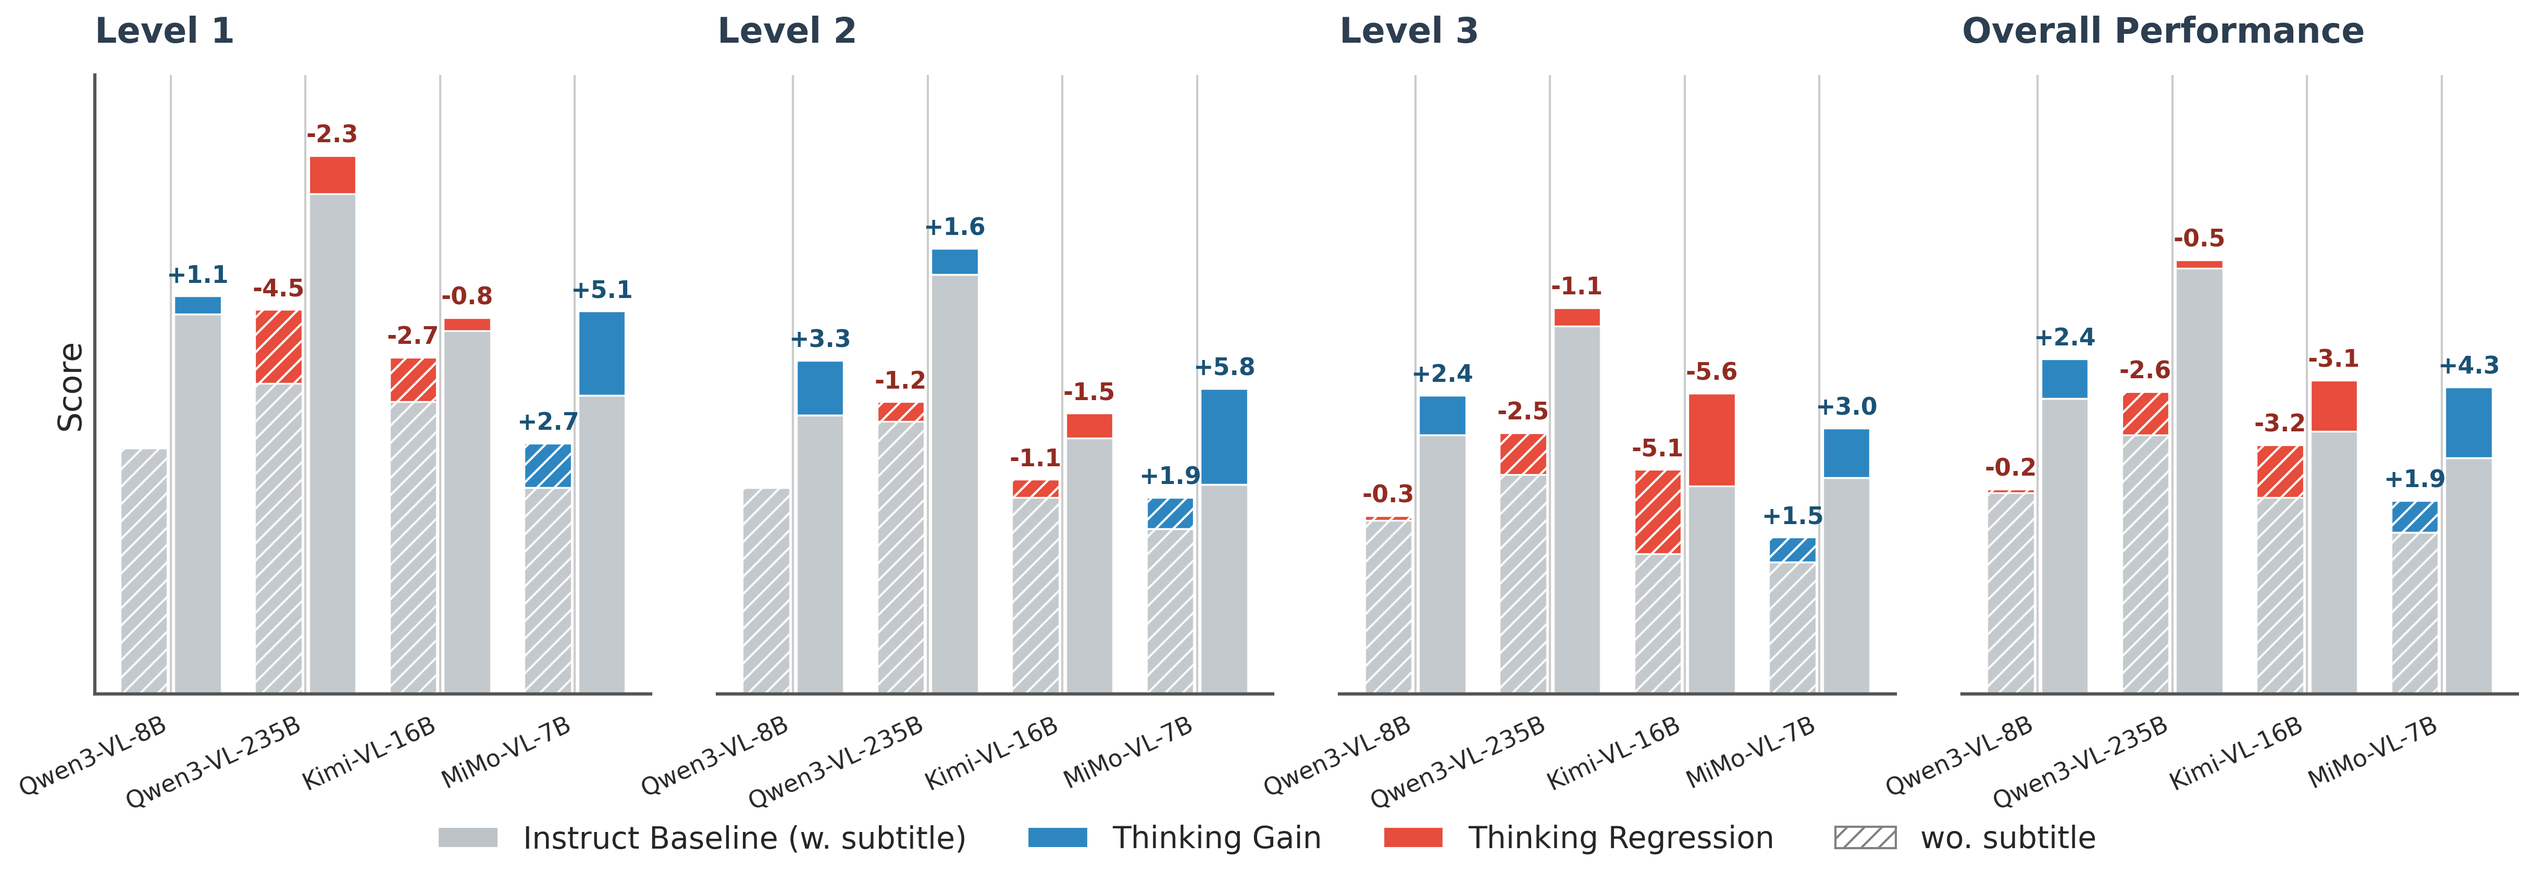
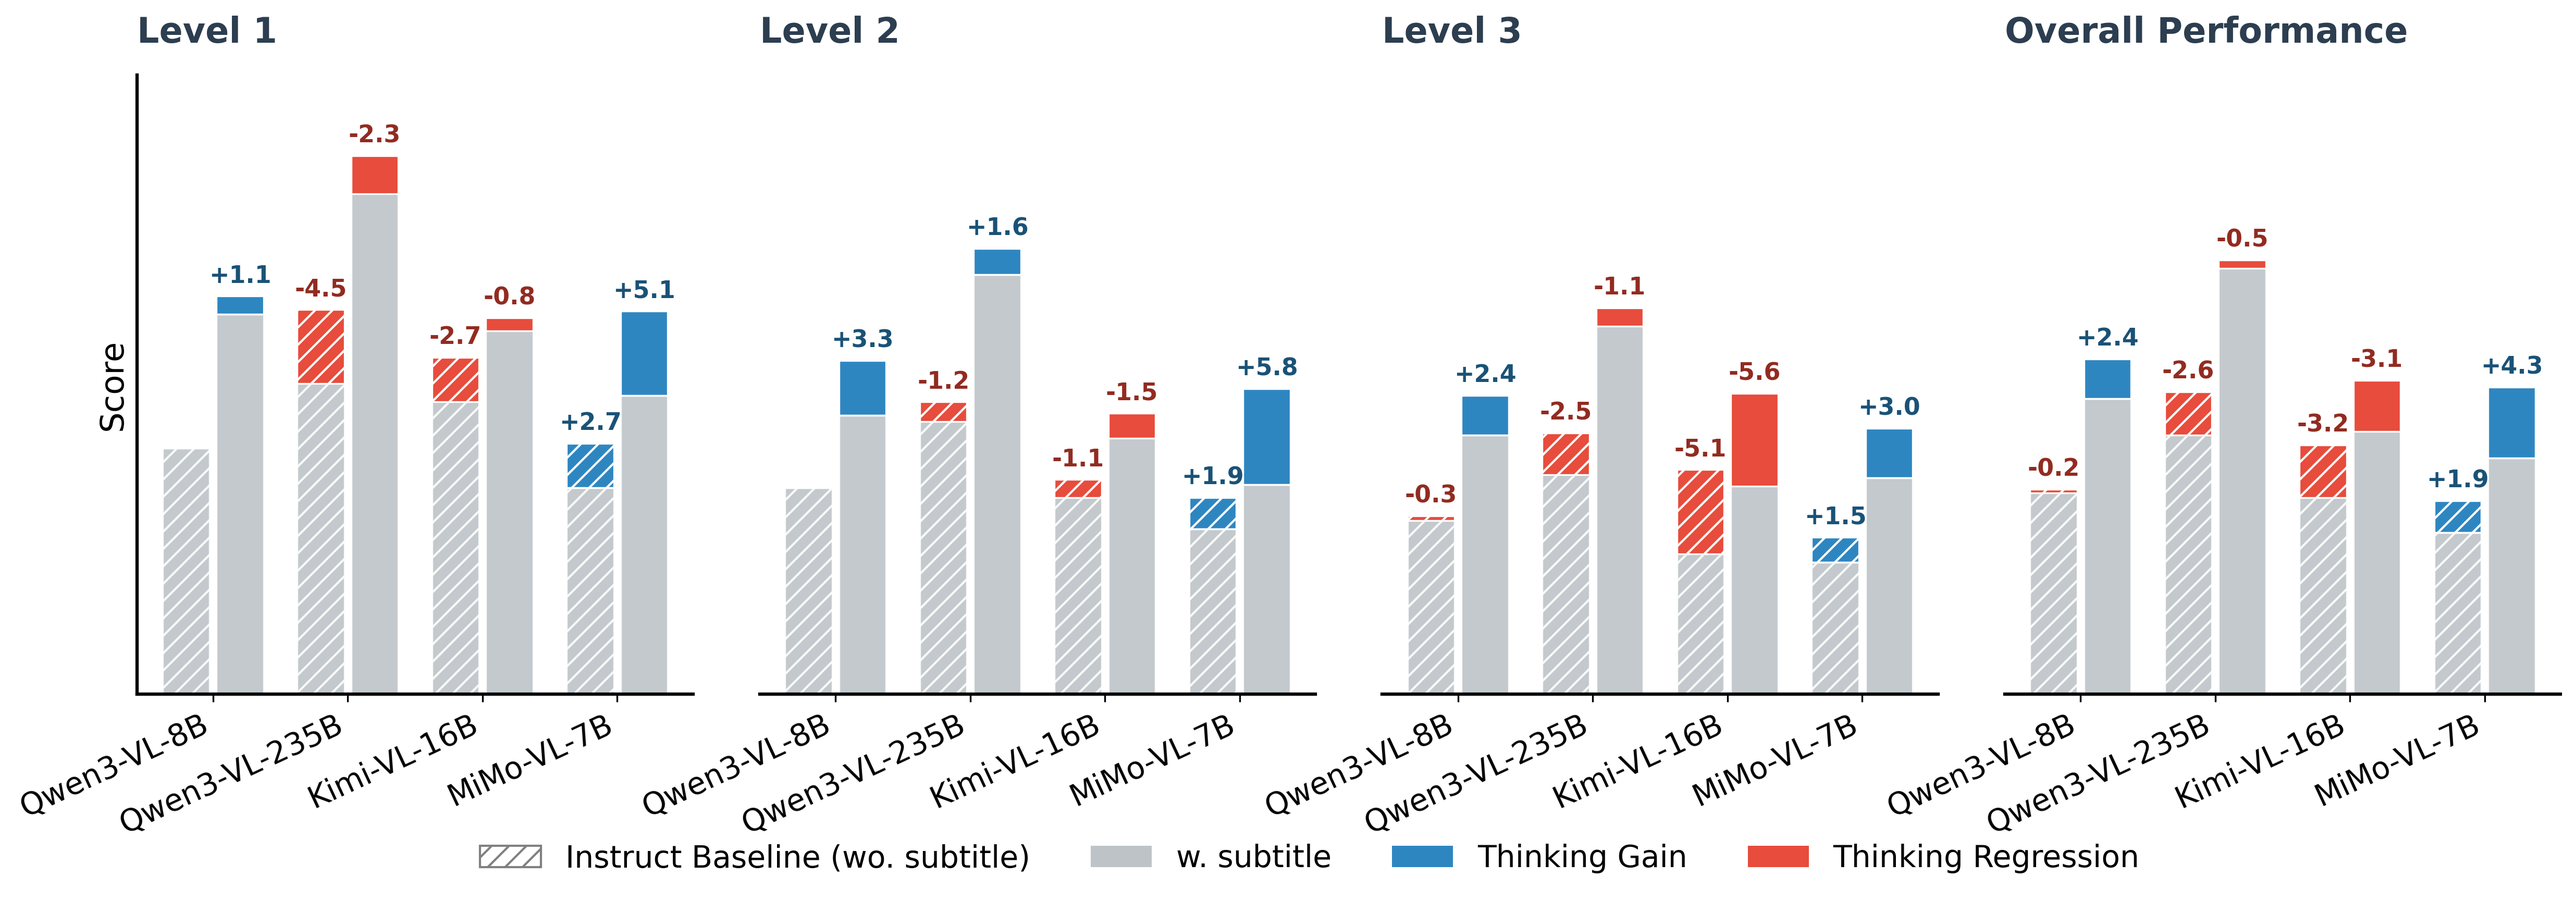
exp2

diff --git a/figs/py/plt_thinking.py b/figs/py/plt_thinking.py
@@ -49,52 +49,52 @@ def plot_stacked_effect(ax, model_names, data_instruct, data_think, title):
     """
     n_models = len(model_names)
     indices = np.arange(n_models)
-    
+
     # Dimensions
     bar_width = 0.35
     spacing = 0.05
-    
+
     # Metrics indices: 0 = w_sub (With Subtitle), 1 = wo_sub (Without Subtitle)
-    # But usually strictly speaking w_sub is better. 
+    # But usually strictly speaking w_sub is better.
     # Let's organize as: Group 1 (No Sub), Group 2 (With Sub) per model
-    
+
     # We will plot "No Sub" on the left (offset -width/2 - small_gap)
     # We will plot "With Sub" on the right (offset +width/2 + small_gap)
-    
-    modes = [("Wo/ Subtitle", 1, STYLE_CONFIG["no_sub_hatch"]), 
+
+    modes = [("Wo/ Subtitle", 1, STYLE_CONFIG["no_sub_hatch"]),
              ("W/ Subtitle", 0, None)]
-    
+
     for i, (mode_label, col_idx, hatch) in enumerate(modes):
         # Calculate positions
         offset = (i - 0.5) * (bar_width + spacing)
         x = indices + offset
-        
+
         # Extract values
         val_inst = np.array([row[col_idx] for row in data_instruct])
         val_think = np.array([row[col_idx] for row in data_think])
-        
+
         # Calculate Delta
         delta = val_think - val_inst
-        
+
         # 1. Plot Base (Instruct)
         # We plot the full Instruct height first
-        ax.bar(x, val_inst, width=bar_width, 
+        ax.bar(x, val_inst, width=bar_width,
                color=STYLE_CONFIG["base_color"], edgecolor='white', linewidth=0.8,
                label="Instruct (Base)" if i==1 else "", hatch=hatch, alpha=0.9)
-        
+
         # 2. Plot Effect (Thinking)
         # Case A: Gain (Think > Instruct) -> Stack ON TOP of Instruct
         # Case B: Regression (Think < Instruct) -> Stack DOWNWARDS from Instruct top (overlay)
-        
+
         # Separate gains and losses for cleaner plotting
         gains = np.maximum(delta, 0)
         losses = np.minimum(delta, 0) # Negative values
-        
+
         # Plot Gains (Blue) on top of Instruct
         ax.bar(x, gains, bottom=val_inst, width=bar_width,
                color=STYLE_CONFIG["gain_color"], edgecolor='white', linewidth=0.8,
                label="Think Gain" if i==1 else "", hatch=hatch)
-        
+
         # Plot Losses (Red) starting from Instruct height downwards
         # height=losses (negative), bottom=val_inst
         ax.bar(x, losses, bottom=val_inst, width=bar_width,
@@ -119,7 +119,7 @@ def plot_stacked_effect(ax, model_names, data_instruct, data_think, title):
     ax.set_xticks(indices)
     ax.set_xticklabels(model_names, fontweight='medium', rotation=25, ha='right')
     ax.set_title(title, loc='left', pad=15, fontweight='bold', color='#2C3E50')
-    
+
     # Aesthetic Grid
     ax.grid(axis='y', linestyle='--', alpha=0.3, color='gray', zorder=0)
     ax.set_axisbelow(True)
@@ -127,12 +127,12 @@ def plot_stacked_effect(ax, model_names, data_instruct, data_think, title):
 def create_custom_legend(fig):
     """Create a global aesthetic legend."""
     handles = [
-        mpatches.Patch(facecolor=STYLE_CONFIG["base_color"], label='Instruct Baseline (w. subtitle)'),
+        mpatches.Patch(facecolor='white', edgecolor='gray', hatch=STYLE_CONFIG["no_sub_hatch"], label='Instruct Baseline (wo. subtitle)'),
+        mpatches.Patch(facecolor=STYLE_CONFIG["base_color"], label='w. subtitle'),
         mpatches.Patch(facecolor=STYLE_CONFIG["gain_color"], label='Thinking Gain'),
         mpatches.Patch(facecolor=STYLE_CONFIG["loss_color"], label='Thinking Regression'),
-        mpatches.Patch(facecolor='white', edgecolor='gray', hatch=STYLE_CONFIG["no_sub_hatch"], label='wo. subtitle'),
     ]
-    fig.legend(handles=handles, loc='lower center', bbox_to_anchor=(0.5, 0.02), 
+    fig.legend(handles=handles, loc='lower center', bbox_to_anchor=(0.5, 0.0),
                ncol=4, frameon=False, fontsize=STYLE_CONFIG["font_size"])
 
 # ---------------------------------------------------------------------------
@@ -169,18 +169,18 @@ def parse_data(raw_list):
 
 def main():
     apply_style()
-    
+
     # Setup Figure: four plots in one row, shared y-axis
     fig, axes = plt.subplots(1, 4, figsize=(20, 6), sharey=True)
     fig.subplots_adjust(bottom=0.22, wspace=0.12)
-    
+
     metrics = [
         (RAW_L1, "Level 1"),
         (RAW_L2, "Level 2"),
         (RAW_L3, "Level 3"),
         (RAW_ALL, "Overall Performance"),
     ]
-    
+
     global_max = 0
     for ax, (raw_data, title) in zip(axes, metrics):
         inst_data, think_data = parse_data(raw_data)
@@ -189,7 +189,7 @@ def main():
         global_max = max(global_max, all_vals.max())
     for ax in axes:
         ax.set_ylim(0, global_max * 1.15)
-    
+
     # Only leftmost plot keeps y-axis and ticks
     axes[0].set_ylabel("Score")
     for ax in axes[1:]:
@@ -197,11 +197,11 @@ def main():
         ax.spines["left"].set_visible(False)
 
     create_custom_legend(fig)
-    
+
     # Save
-    out_dir = Path(__file__).resolve().parent
-    out_path = out_dir / "scientific_think_effect_v2.png"
+    out_path = "scientific_think_effect_v2.png"
     print(f"Saving scientific figure to {out_path} ...")
+    # plt.show()
     plt.savefig(out_path, dpi=300, bbox_inches='tight')
     plt.close()
     print("Done.")
